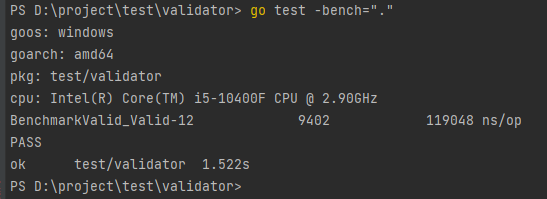
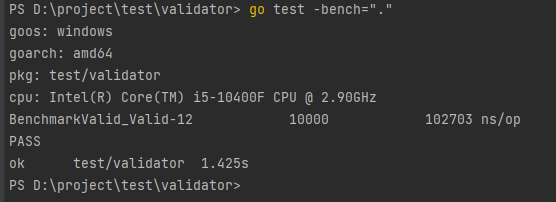
fix: 优化排序性能，优化unique性能

diff --git a/util.go b/util.go
@@ -30,7 +30,8 @@ func readBody(r *http.Request) []byte {
 }
 
 // 将规则和数据处理成单条
-func disintegrateRules(rules []Rule, data interface{}, init bool) (rs []ruleRow, err error) {
+func disintegrateRules(rules []Rule, data interface{}, init bool) (rsList [][]ruleRow, err error) {
+	var rs []ruleRow
 	notData := "0"
 	var otherRules []Rule
 	boolMap := map[string]interface{}{} // 是否时map类型
@@ -161,63 +162,41 @@ func disintegrateRules(rules []Rule, data interface{}, init bool) (rs []ruleRow,
 			})
 		}
 	}
+	rsList = append(rsList, rs)
 	if len(otherRules) > 0 {
 		if childRs, er := disintegrateRules(otherRules, nil, false); er != nil {
 			err = er
 			return
 		} else {
-			rs = append(rs, childRs...)
+			rsList = append(rsList, childRs...)
 		}
 	}
 	return
 }
 
-// 规则排序
-func ruleRowSort(list []ruleRow) (rs []ruleRow, pathIndex map[string]int) {
-	if len(list) == 0 {
-		return
-	}
-	rs = append(rs, list[0])
-	pathIndex = map[string]int{
-		list[0].path: 0,
-	}
-	list = list[1:]
-	for {
-		isAdd := false
-		for i := len(rs) - 1; i >= 0; i-- {
-			v := rs[i]
-			for k, v1 := range list {
-				if strings.Index(v1.path, v.path) != -1 {
-					rs = append(rs, v1)
-					pathIndex[v1.path] = len(rs) - 1
-					isAdd = true
-					if k == 0 {
-						list = list[1:]
-					} else {
-						list = append(list[:k], list[k+1:]...)
-					}
-					if len(list) == 0 {
-						return
-					}
-					break
+func ruleRowSort(list [][]ruleRow) (rs []ruleRow, pathIndex map[string]int) {
+	for k, rowDataList := range list {
+		if k == 0 {
+			rs = rowDataList
+			continue
+		} else if k+1 > len(list) {
+			break
+		}
+		var newRs []ruleRow
+		pathIndex = map[string]int{}
+		for _, row := range rs {
+			newRs = append(newRs, row)
+			pathIndex[row.path] = len(newRs) - 1
+			for _, rowChild := range list[k] {
+				if row.path == rowChild.prefix {
+					newRs = append(newRs, rowChild)
+					pathIndex[rowChild.path] = len(newRs) - 1
 				}
 			}
-			if isAdd {
-				break
-			}
 		}
-		if !isAdd {
-			if len(list) == 0 {
-				return
-			}
-			rs = append(rs, list[0])
-			pathIndex[list[0].path] = len(rs) - 1
-			list = list[1:]
-			if len(list) == 0 {
-				return
-			}
-		}
+		rs = newRs
 	}
+	return
 }
 
 func isSlice(prefix string) bool {

diff --git a/methods.go b/methods.go
@@ -217,15 +217,17 @@ func (m *methods) Unique(d *Data, args ...interface{}) error {
 	}
 	fullList := strings.Split(d.path, ".")
 	newList := append(fullList[0:lastStarIndex], pkList[lastStarIndex:]...)
-	var data interface{}
+	var list []interface{}
 	for _, v := range d.GetData(strings.Join(newList, ".")) {
-		if data == nil {
-			data = v.Data
-		} else if data == v.Data {
+		if v.FullPk == d.path {
+			break
+		}
+		if inArray(v.Data, list) {
 			return validError(lang.Unique, d.getMessage(), langArg{
 				notes: d.GetNotes(),
 			})
 		}
+		list = append(list, v.Data)
 	}
 	return nil
 }
